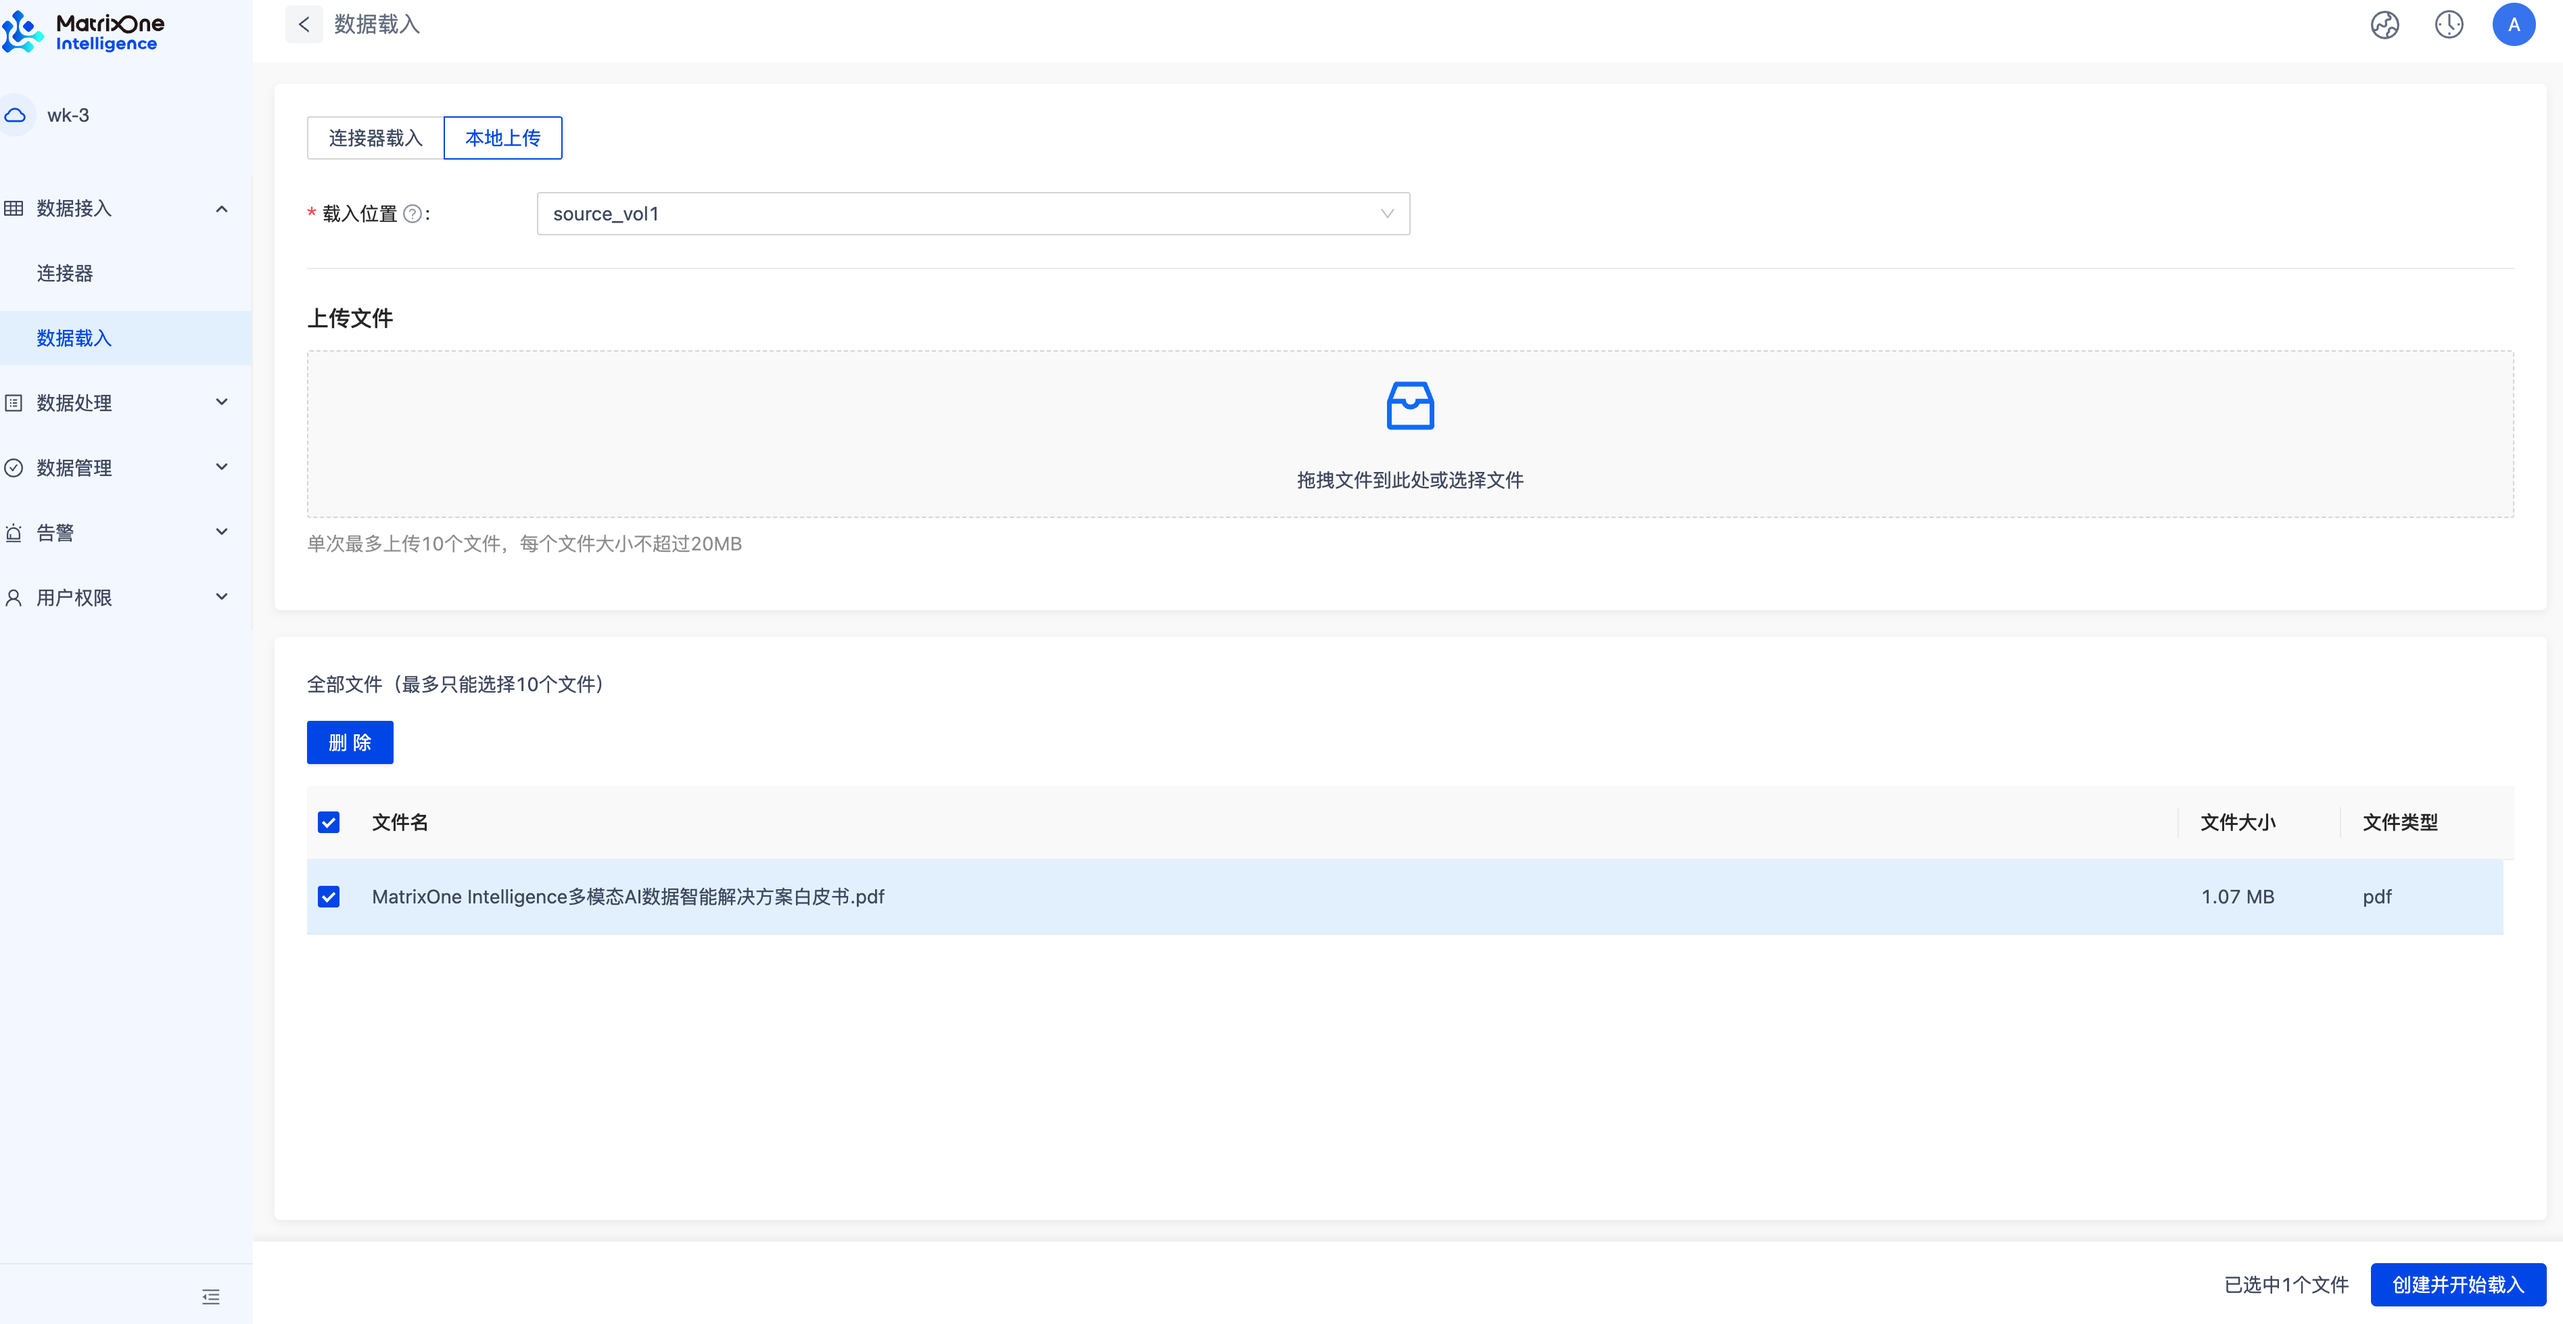
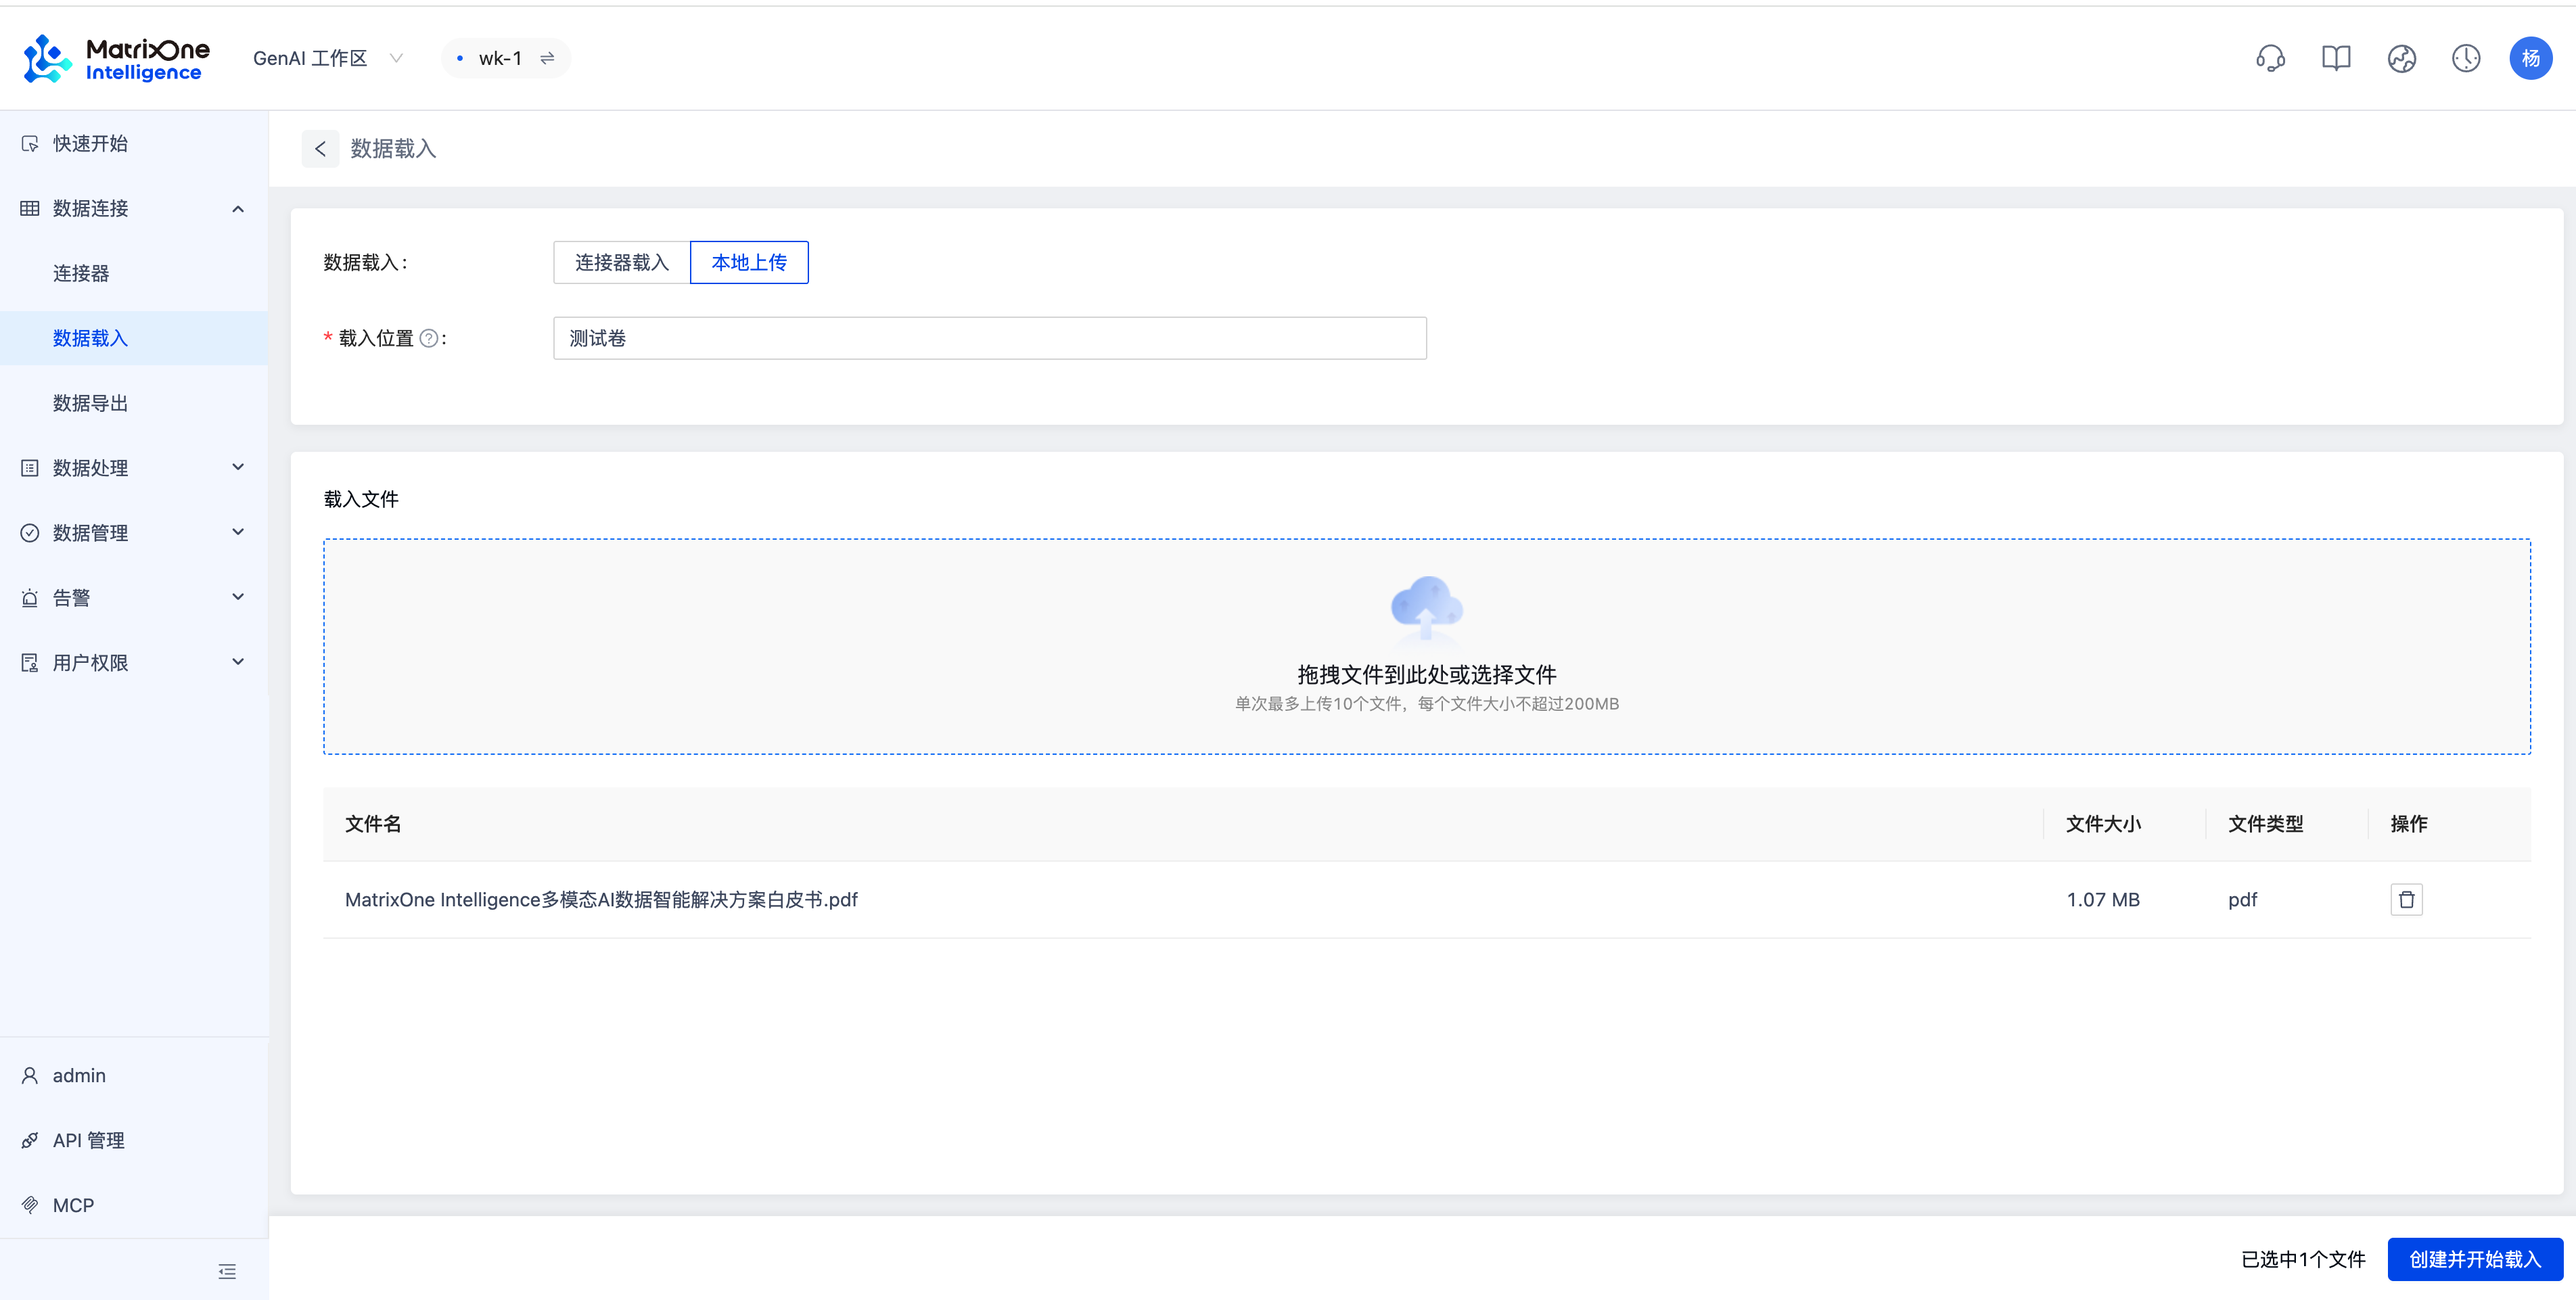
fix

diff --git a/docs/MatrixOne-Intelligence/Get-Started/workspace.md b/docs/MatrixOne-Intelligence/Get-Started/workspace.md
@@ -17,77 +17,46 @@
 
 ### 3. 登录 MatrixOne Intelligence 账户
 
-激活成功后，会跳转到登录界面，输入账户密码即可登录至 MatrixOne Intelligence 管理平台。
+激活成功后，系统会跳转至登录界面。首次输入账号密码后，将进入 GenAI 工作区及 MatrixOne 实例选择页面，在此选择 GenAI 工作区后直接进入工作区管理平台。后续登录时，系统会自动记住上一次的选择，如需更换，可直接在 GenAI 工作区管理界面切换 MatrixOne 实例。
 
-## 第二步：创建 GenAI 工作区
+## 第二步：进入工作区
 
-### 1. 打开工作区创建页面
-
-在 **GenAI 工作区**页面，点击**创建工作区**按钮。
-
-### 2. 配置工作区信息
-
-- **名称：**为您的工作区去一个名称。
-- **管理员名称：**为您的工作区取一个管理员名称，或者使用平台自动生成的名称。
-- **管理员密码：**设置管理员密码。
-
-### 3. 完成创建
-
-点击**创建**完成创建。几秒后，状态为**可用**时，表示工作区创建成功。
-
-## 第三步：进入工作区
-
-### 1. 打开工作区管理平台
-
-点击工作区列表右方的跳转图标以打开工作区管理平台的登录页面。
-
-### 2. 输入管理员用户名和密码
-
-在登录页面中输入以下信息：
-
-- **用户名：**创建工作区时设置的管理员名称，默认为 admin。
-- **密码：**创建工作区时设置的管理员密码。
-
-## 数据处理
+首次登录时，系统会自动为您创建一个以账户名称命名的工作区，无需额外设置密码。后续您也可以根据需求新建工作区，详情可参考[工作区管理](../Workspace-Mgmt/workspace.md)
 
 ### 1. 数据载入
 
-- 在菜单栏的数据接入中点击并进入**数据载入**页面。
-- 在编数据载入页面右上角点击**载入数据**。
+- 在菜单栏的**数据连接**中点击并进入**数据载入**页面。
+- 在数据载入页面右上角点击**载入数据**。
 - 在数据载入页面选择**本地上传**，并输入以下配置信息：
-    - 载入位置：下拉处添加原始数据卷
+    - 载入位置：下拉处创建测试卷
     - 上传 PDF 文件
     - 选择需要载入的文件
 - 查看数据载入列表，等待状态变成**完成**
 
 ![](https://community-shared-data-1308875761.cos.ap-beijing.myqcloud.com/artwork/mocdocs/images/workspace_1.png)
 
+如需了解如何创建连接器，从 OSS、S3 等数据源载入数据，请参见[连接器](../Data-Connect/connector.md)
+
 ### 2. 创建工作流
 
-- 在菜单栏的数据处理处中点击并进入**工作流**页面
-- 在工作流页面右上角点击**创建工作流**
-- 在创建工作流界面输入以下信息
-    - 工作流名称
-    - 源数据卷：选择上一步创建的原始数据卷
-    - 目标数据卷：在下拉处添加目标数据卷
-    - 处理模式：保持默认值
-    - 优先级：保持默认值
-    - 文件类型：选择文本类型
-    - 分支名称：保持默认值
-    - 处理流程图：只需保留文档解析节点
-- 查看工作流列表，等待状态变成**完成**
+平台内置了多种工作流模版，并提供样例数据，帮助您快速构建工作流：
+
+1. 在菜单栏选择**数据处理**，进入**工作流模版**页面。  
+2. 点击**图文混合文档 RAG 数据准备**卡片上的**使用模版**按钮，进入创建工作流界面。  
+3. 在创建工作流界面，找到**目标位置**，下拉新建用于存储结果的数据卷。  
+4. 点击右下角**创建并开始运行**，完成工作流的创建。  
+5. 返回工作流列表，等待状态变为**完成**。  
 
 ![](https://community-shared-data-1308875761.cos.ap-beijing.myqcloud.com/artwork/mocdocs/images/workspace_2.png)
 
 ### 3. 查看文件解析结果
 
-- 在菜单栏的数据探索处中点击并进入 **Catalog** 页面
-- 在处理数据卷中找到上一步创建的目标数据卷
-- 点击文件名称查看文件解析情况
+- 在菜单栏的**数据管理**处中点击并进入**数据中心**页面
+- 在处理数据卷中找到上一步创建的目标位置的数据卷
+- 点击右侧的预览按钮查看文件解析结果
   
 <div align="center">
-    <img src=https://community-shared-data-1308875761.cos.ap-beijing.myqcloud.com/artwork/mocdocs/catalog/vol_4.png
- width=100% heigth=100%/>
+    <img src=https://community-shared-data-1308875761.cos.ap-beijing.myqcloud.com/artwork/mocdocs/images/workspace_3.png width=100% heigth=100%/>
 </div>
 
 ### 4. 下载解析数据
@@ -96,9 +65,8 @@
 
 - JSON 文件：记录完整的文字解析内容，包括文件基础信息、分段类型、分段所在页码以及对应图片的原始元数据。
 - 图片文件夹：存放文档中解析生成的图片资源，便于后续查看与使用。
+- 表格文件夹：存放文档中解析生成的表格资源，便于后续查看与使用。
 - full.md 文件：完整 Markdown 内容文件。
-
-![](https://community-shared-data-1308875761.cos.ap-beijing.myqcloud.com/artwork/mocdocs/images/workspace_3.png)
 
 恭喜您成功创建 GenAI 工作区并完成文件处理全流程！有关 GenAI 工作区的更多操作详情，可参阅 [GenAI 工作区](../Workspace-Mgmt/overview.md)相关章节。
 

diff --git a/docs/MatrixOne-Intelligence/Workspace-Mgmt/workspace.md b/docs/MatrixOne-Intelligence/Workspace-Mgmt/workspace.md
@@ -2,39 +2,18 @@
 
 ## 创建工作区
 
-1. 登录您的 MO Intelligence 账号，进入到管理平台。
+1. 登录您的 MO Intelligence 账号，进入到 GenAI 工作区，首次登录系统将自动为您创建一个工作区。
 
-    如果您还没有 MO Intelligence 账号，您可以点击[注册登录](https://matrixorigin.cn/moi-signup)开始注册，或者参照[快速体验 MatrixOne Intelligence](../../Get-Started/quickstart.md) 的注册指南。
+    如果您还没有 MO Intelligence 账号，您可以点击[注册登录](https://matrixorigin.cn/moi-signup)开始注册，或者参照[快速体验 MatrixOne Intelligence](../../MatrixOne-Intelligence/Get-Started/workspace.md) 的注册指南。
 
-2. 在菜单栏中点击 **GenAI 工作区**进入工作区列表页面，然后点击**创建工作区**。
-
-3. 在弹窗输入工作区名称、管理员名称 (默认为 admin) 和管理员密码完成创建。
+2. 在左上角中点击工作区切换按钮，然后点击**添加工作区**，输入工作区名字即可成功创建。
 
 <div align="center">
-    <img src=https://community-shared-data-1308875761.cos.ap-beijing.myqcloud.com/artwork/mocdocs/workspace/workspsce-3.png
- width=60% heigth=60%/>
+    <img src=https://community-shared-data-1308875761.cos.ap-beijing.myqcloud.com/artwork/mocdocs/images/wk_mgt_1.png width=100% heigth=100%/>
 </div>
 
-## 修改工作区
+## 切换工作区
 
-点击工作区列表右侧的修改图标，可以对工作区名称和管理员密码进行修改。
+点击工作区列表下拉可随意切换不同工作区。
 
-## 删除工作区
-
-点击工作区列表右侧的删除图标，可以删除工作区
-
-## 进入工作区
-
-点击工作区列表右侧的跳转图标，跳转至登录页面，输入创建工作区时填写的用户名和密码，即可进入到工作区进行数据处理。
-
-<div align="center">
-    <img src=https://community-shared-data-1308875761.cos.ap-beijing.myqcloud.com/artwork/mocdocs/workspace/workspace-2.png
- width=60% heigth=60%/>
-</div>
-
-进入 GenAI 工作区后，您可以轻松实现多模态数据的管理和分析。首先，通过简便的步骤将数据从阿里云 OSS 和标准 S3 中的数据导入平台。接着，利用可视化工作流进行数据处理，完成清洗、转换和解析。最后，您可以通过 Catalog 功能整合和分析数据，确保数据安全并支持进一步探索。
-
- <div align="center">
-    <img src=https://community-shared-data-1308875761.cos.ap-beijing.myqcloud.com/artwork/mocdocs/release-notes/genai.png
- width=100% heigth=100%/>
-</div>
+进入 GenAI 工作区后，您可以轻松实现多模态数据的管理和分析。首先，通过简便的步骤将数据从不同来源的数据导入平台。接着，利用可视化工作流进行数据处理，完成清洗、转换和解析。最后，您可以通过数据中心功能整合和分析数据，确保数据安全并支持进一步探索。

diff --git a/docs/MatrixOne-Intelligence/Get-Started/quickstart.md b/docs/MatrixOne-Intelligence/Get-Started/quickstart.md
@@ -17,7 +17,7 @@
 
 ### 3. 登录 MatrixOne Intelligence 账户
 
-激活成功后，会跳转到登录界面，输入账户密码即可登录至 MatrixOne Intelligence 管理平台。
+激活成功后，系统会跳转至登录界面。首次输入账号密码后，将进入 GenAI 工作区及 MatrixOne 实例选择页面，在此选择 MatrixOne 实例后直接进入实例管理平台。后续登录时，系统会自动记住上一次的选择，如需更换，可直接在 MatrixOne 实例管理界面切换 GenAI 工作区。
 
 ## 第二步：创建一个 Serverless 实例
 
